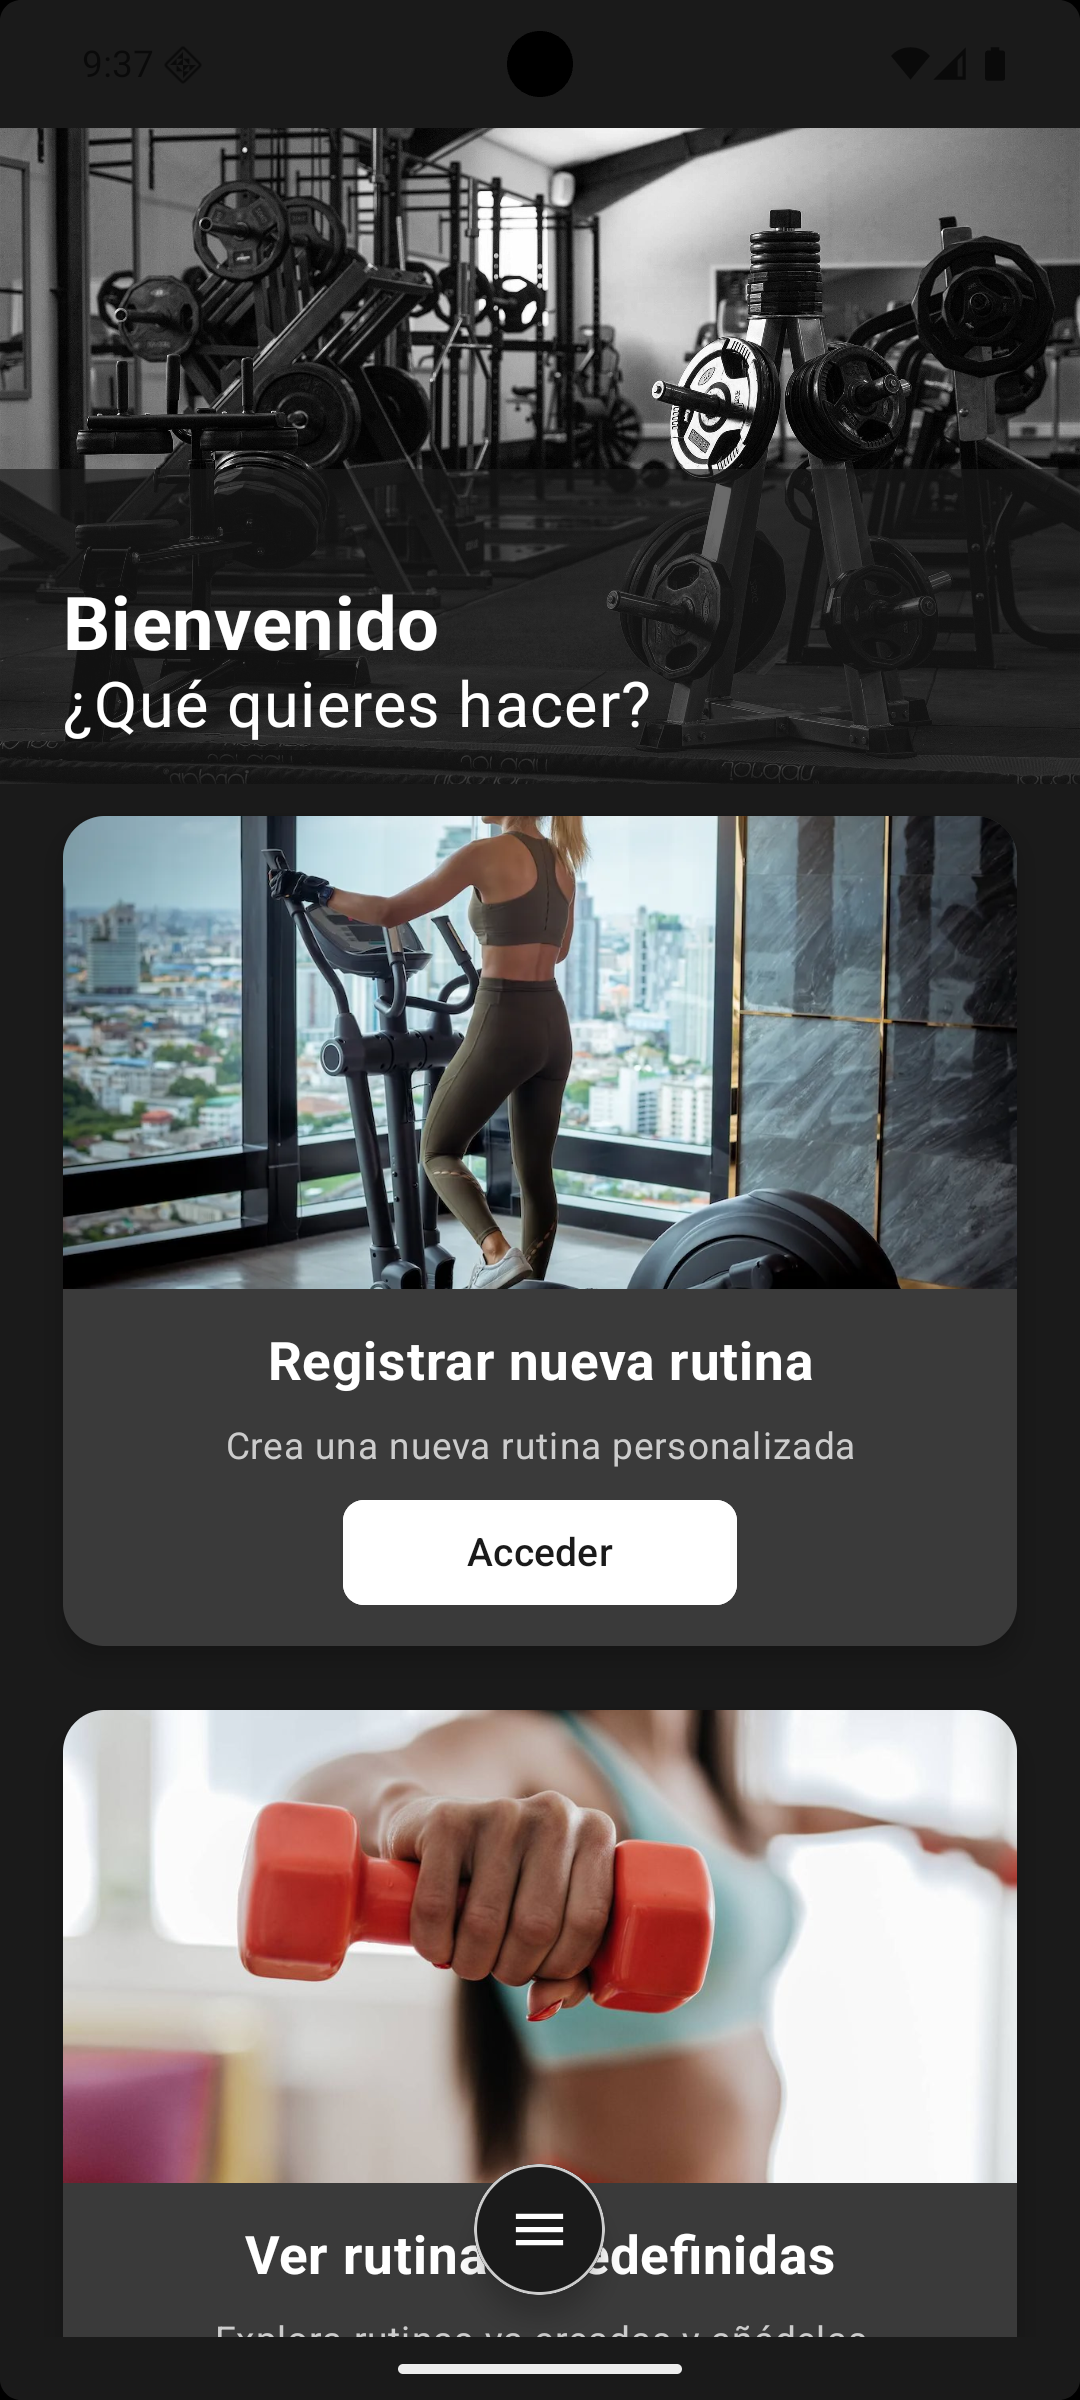
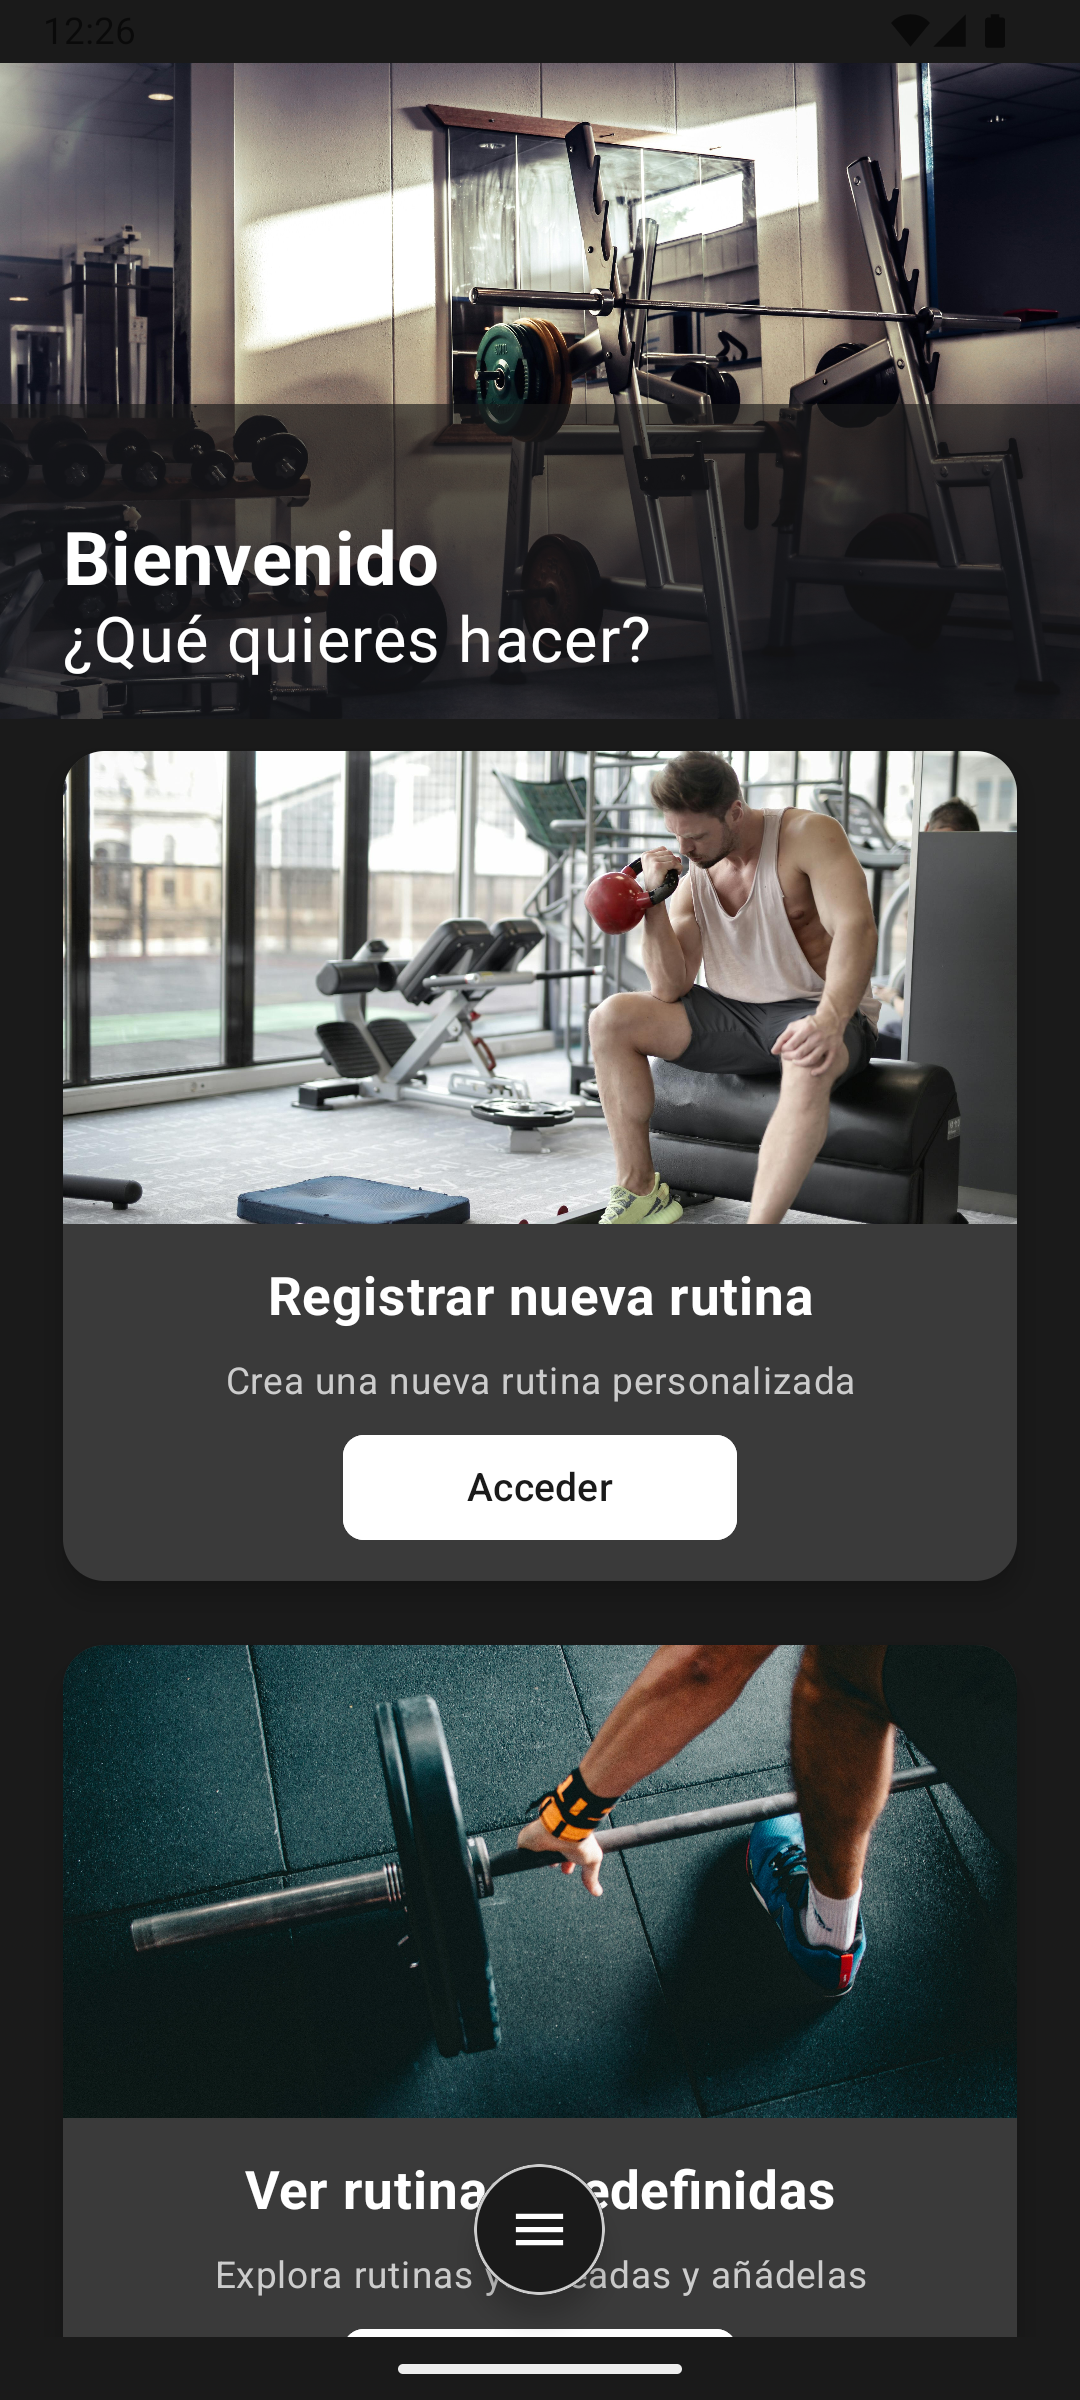
style: Nuevas imagenes de cada pantalla de la app

diff --git a/app/src/main/java/com/example/gymtrack/ui/screens/RegisterRoutineScreen.kt b/app/src/main/java/com/example/gymtrack/ui/screens/RegisterRoutineScreen.kt
@@ -95,7 +95,7 @@ fun RegisterRoutineScreen(viewModel: RoutineViewModel) {
 
             // Encabezado de pantalla con imagen y título
             ScreenHeader(
-                image = R.drawable.register_routine2,
+                image = R.drawable.register_routine,
                 title = if (esAdmin) "Crea una rutina predefinida" else "Diseña tu progreso",
                 subtitle = if (esAdmin) "Crea una rutina para todos" else "Crea tu rutina a medida"
             )

diff --git a/README.md b/README.md
@@ -41,14 +41,37 @@ git clone https://github.com/AlvaroMoreno39/GymTrack.git
 ```
 
 ### 2⃣ Abre el proyecto en Android Studio.
-### 3⃣ Configura Firebase en tu app:
+### 3⃣ (Opcional) Configura Firebase y Google Cloud.
+Si eres un desarrollador avanzado y quieres conectar tu propia base de datos y notificaciones:
+
 - Crea un proyecto en Firebase Console.
 
 - Descarga el archivo google-services.json y colócalo en la carpeta app/ del proyecto.
 
-- Activa Authentication, Firestore, Cloud Functions y Cloud Messaging en la consola.
+- Activa los servicios que quieras (Authentication, Firestore, Cloud Functions, Cloud Messaging).
 
+⚠ Nota: No es necesario configurar Firebase ni Google Cloud para generar y probar la APK básica.
 ### 4⃣ Ejecuta el proyecto en un emulador o dispositivo físico.
+
+### 5⃣ 🔨 Genera el APK para probarlo manualmente.
+Si quieres probar la app sin necesidad de conectarte a Firebase:
+
+- En Android Studio, ve a Build → Build APK(s).
+
+- Cuando termine, haz clic en locate para abrir la carpeta donde se generó el archivo:
+```lua
+app/build/outputs/apk/debug/app-debug.apk
+```
+
+### 6⃣ 📲 Pasa el APK a tu móvil y ejecútalo.
+Copia el archivo .apk al almacenamiento del móvil (vía cable USB, Google Drive, email, etc.).
+
+En el móvil, activa la opción Permitir instalar apps de orígenes desconocidos.
+
+Abre el APK desde el administrador de archivos del móvil y sigue los pasos para instalarlo.
+
+#### ⚠ Importante: Este paso solo es necesario si la app no está publicada en Google Play Store.
+Si subes GymTrack a Google Play, los usuarios podrán descargarla e instalarla directamente desde la tienda, sin necesidad de transferir el APK manualmente.
 
 ---
 
